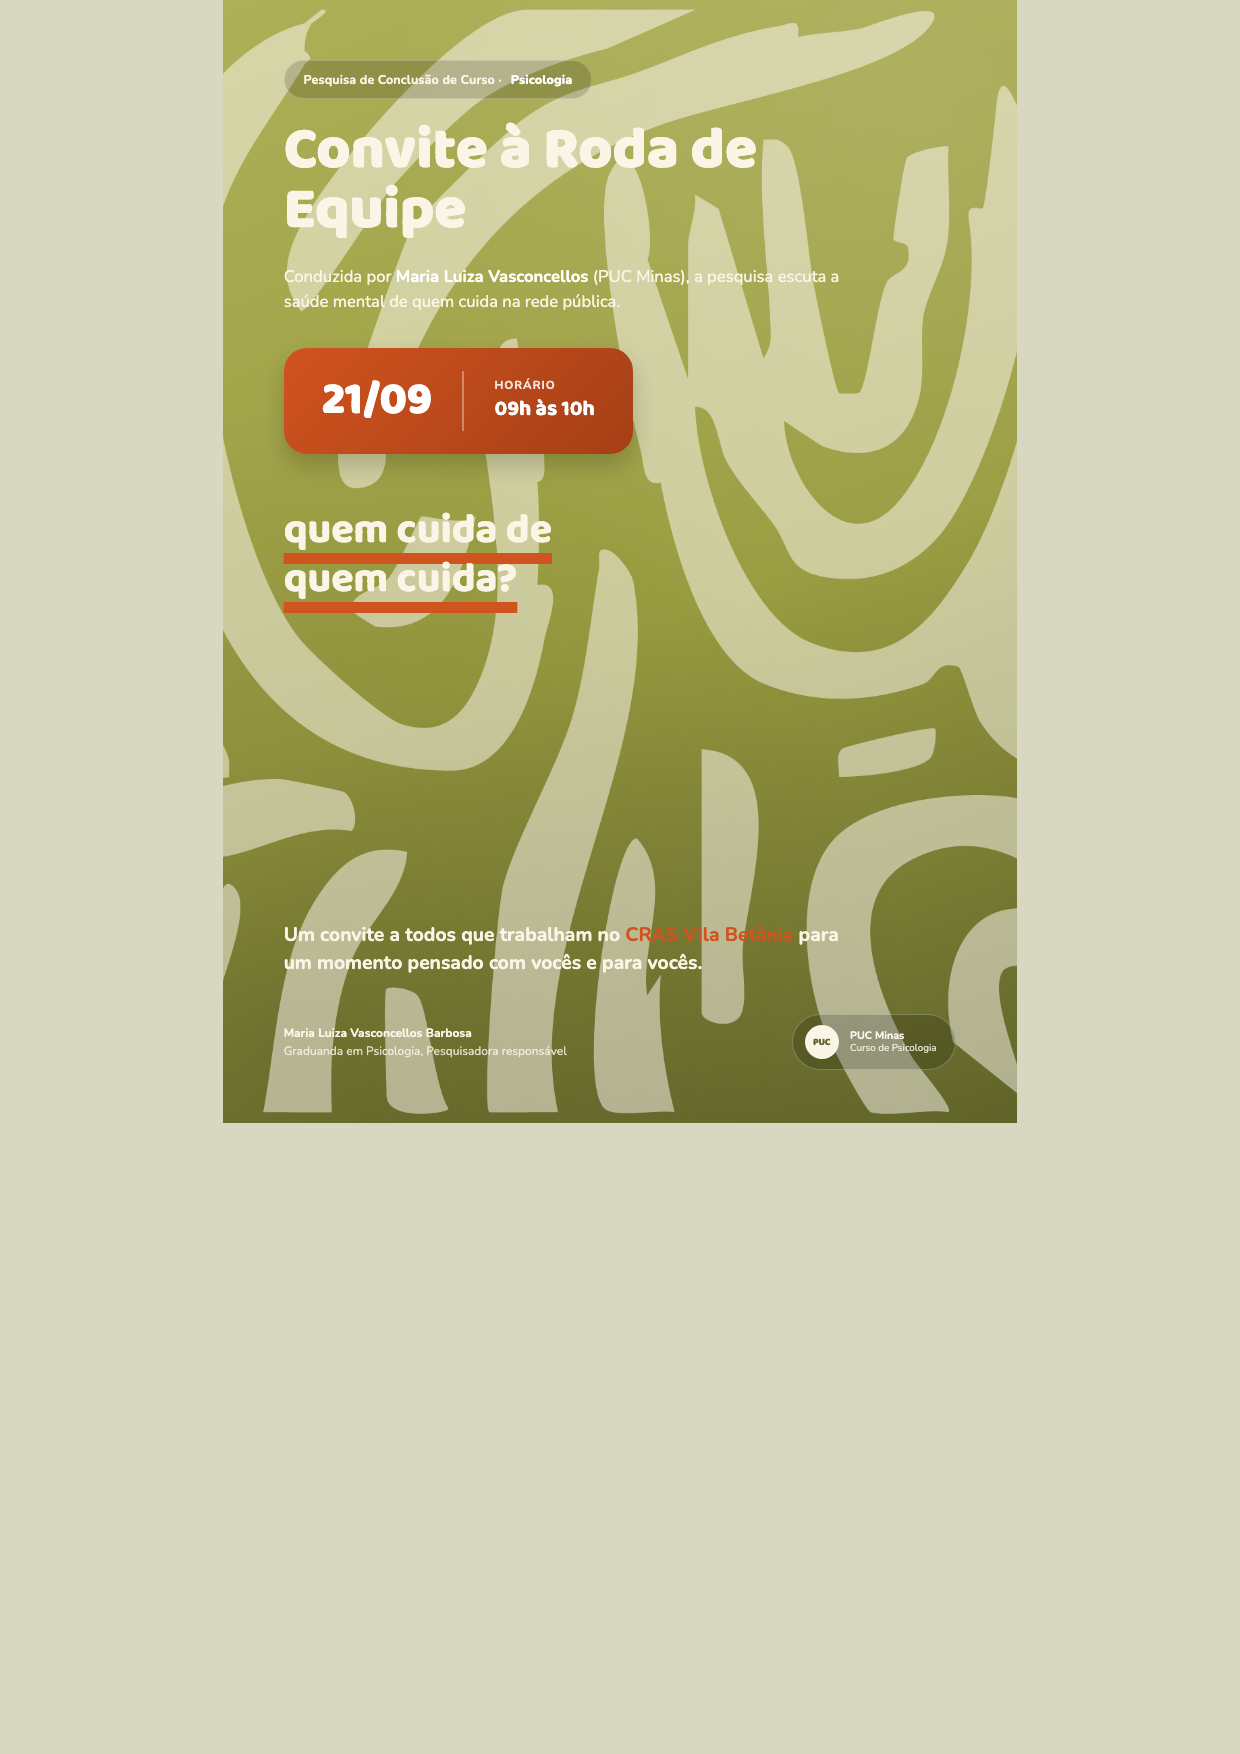
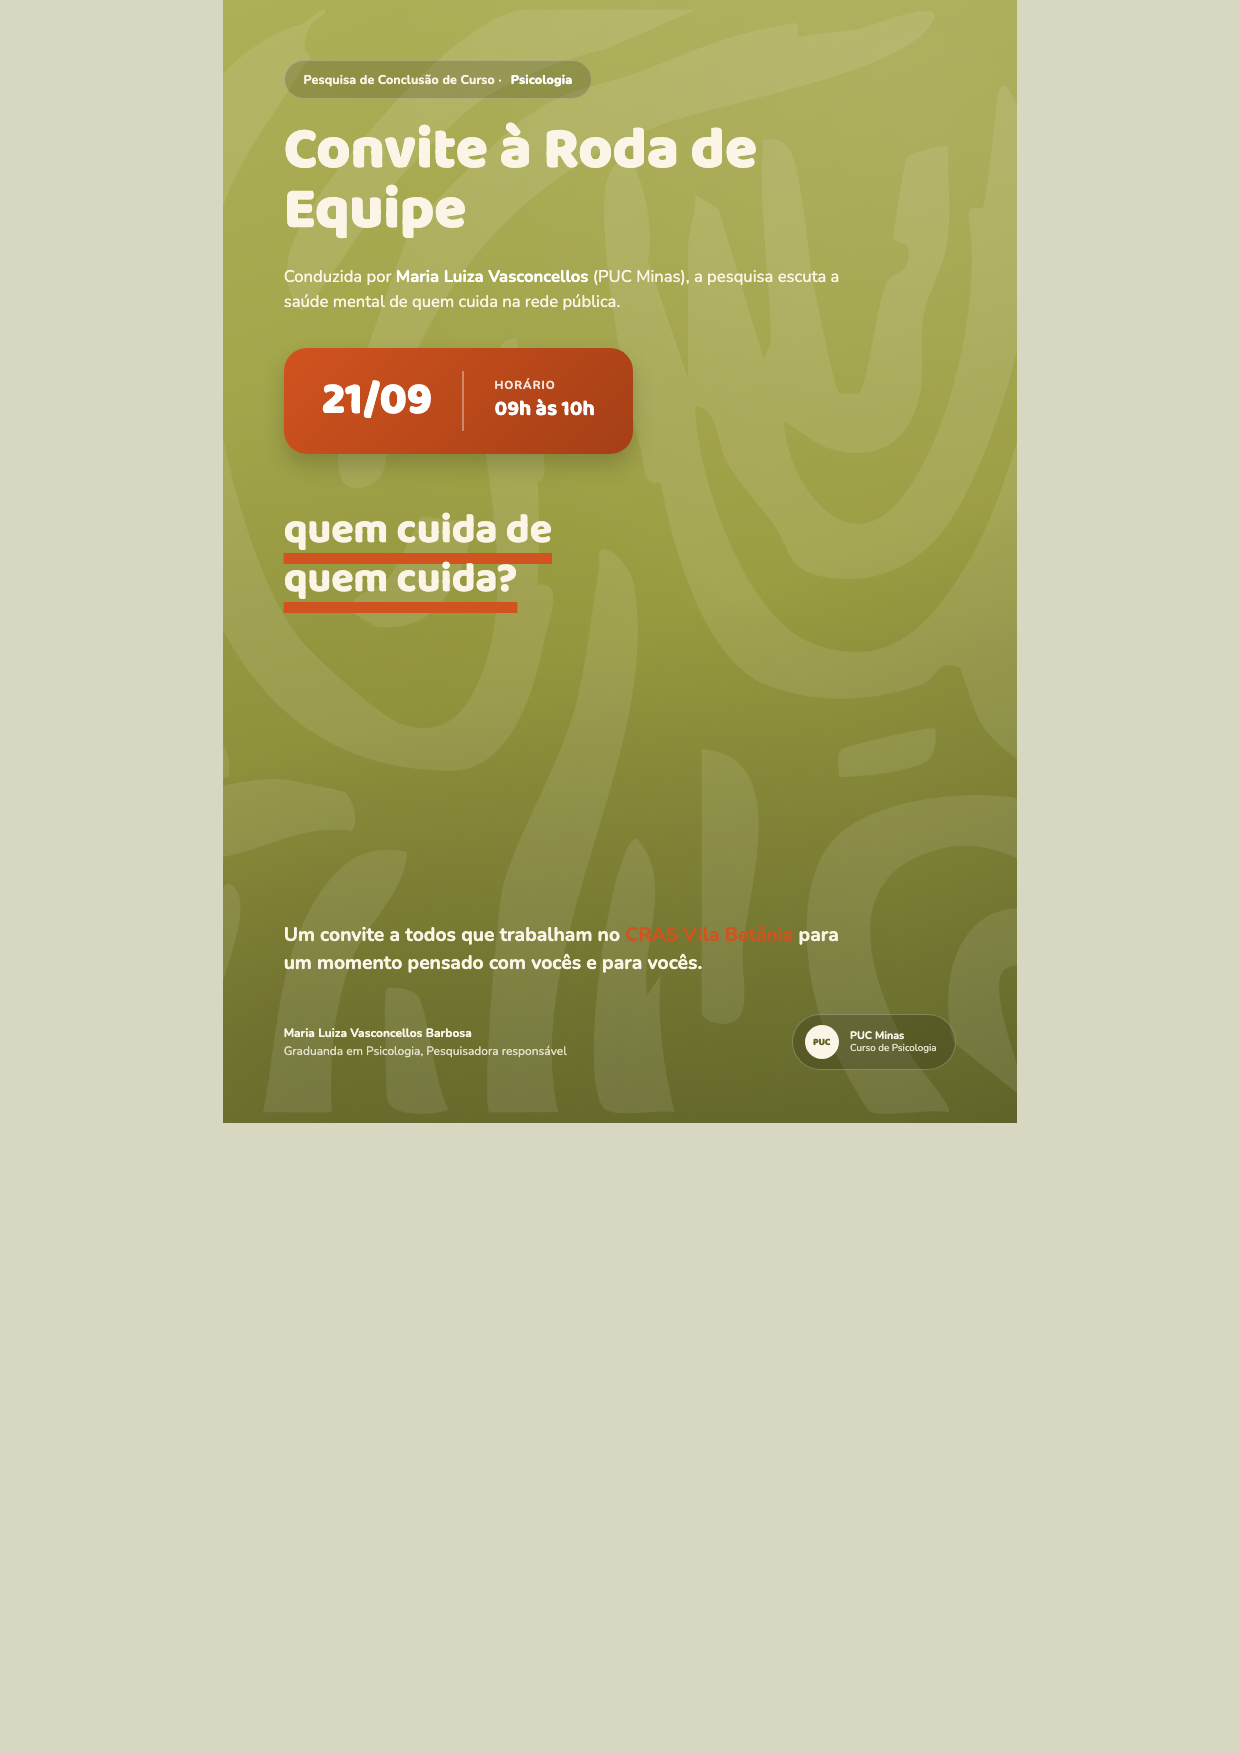
auto: automacoes, sessoes - 2026-09-07 20:25

diff --git a/automacoes/pesquisa-tcc-bh/convite-roda-cras/frente.html b/automacoes/pesquisa-tcc-bh/convite-roda-cras/frente.html
@@ -42,7 +42,7 @@
     background-repeat:no-repeat;
     background-position:center;
     background-size:140%;
-    opacity:.5;
+    opacity:.09;
   }
 
   .badge{

diff --git a/automacoes/pesquisa-tcc-bh/convite-roda-cras/verso.html b/automacoes/pesquisa-tcc-bh/convite-roda-cras/verso.html
@@ -43,7 +43,7 @@
     background-repeat:no-repeat;
     background-position:center;
     background-size:140%;
-    opacity:.5;
+    opacity:.09;
   }
 
   h1{

diff --git a/sessoes/sessao-2026-09-07.md b/sessoes/sessao-2026-09-07.md
@@ -145,3 +145,12 @@ Os 4 workflows (08, 09, 10, 11/09) foram regravados e reativados via
 ?? automacoes/pesquisa-tcc-bh/convite-roda-cras/
 ```
 
+
+## 20:25
+```
+ M automacoes/pesquisa-tcc-bh/convite-roda-cras/frente-preview.png
+ M automacoes/pesquisa-tcc-bh/convite-roda-cras/frente.html
+ M automacoes/pesquisa-tcc-bh/convite-roda-cras/verso-preview.png
+ M automacoes/pesquisa-tcc-bh/convite-roda-cras/verso.html
+```
+
